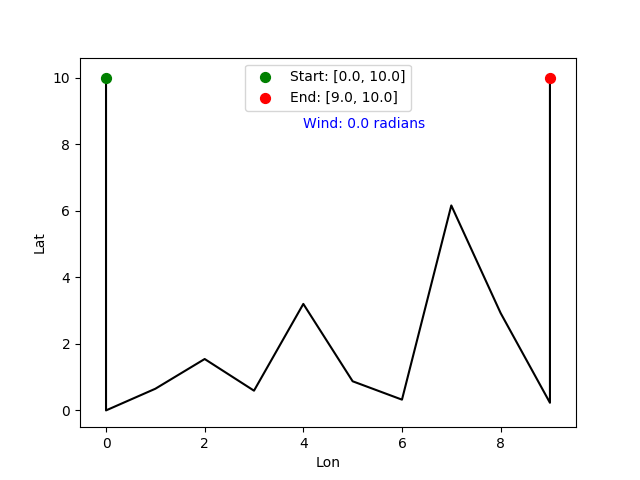
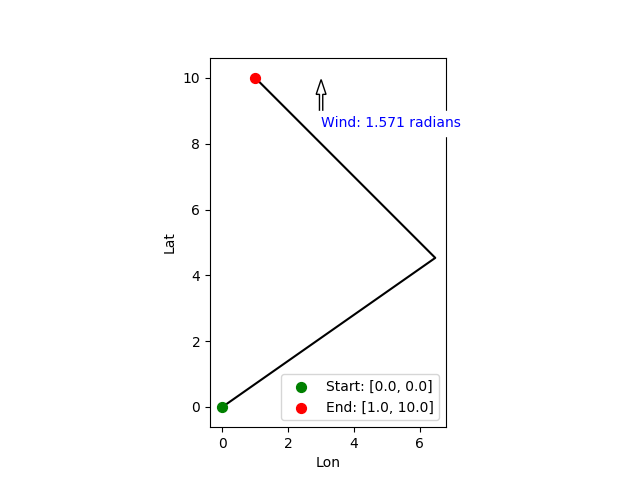
kinda working beta

diff --git a/lib/calc_route.dart b/lib/calc_route.dart
@@ -1,0 +1,120 @@
+import 'dart:math';
+import 'cart_point.dart';
+import 'route_model.dart';
+import 'package:sail_routing_dart/route_writer.dart';
+
+void main() {
+  Cart_Point start = new Cart_Point(0.0, 0.0);
+  Cart_Point end = new Cart_Point(1.0, 10.0);
+  double wind = 0.0;
+  RouteModel route = new RouteModel(start: start, end: end, wind_radians: wind);
+
+  calculateOptimal(route);
+  print(route);
+
+  RouteWriter rw = new RouteWriter();
+  rw.writeToFileFromRouteModel(route: route);
+  rw.run_python_plotter();
+}
+
+double euc_dist(Cart_Point a, Cart_Point b) {
+  return a.toPoint().distanceTo(b.toPoint());
+}
+
+Cart_Point find_intersection(
+    Cart_Point a, Cart_Point b, Cart_Point c, Cart_Point d) {
+  double a1 = b.y - a.y;
+  double b1 = a.x - b.x;
+  double c1 = a1 * (a.x) + b1 * (a.y);
+
+  // Line CD represented as a2x + b2y = c2
+  double a2 = d.y - c.y;
+  double b2 = c.x - d.x;
+  double c2 = a2 * (c.x) + b2 * (c.y);
+
+  double determinant = a1 * b2 - a2 * b1;
+
+  if (determinant == 0) {
+    print("find_intersection() found parallel");
+    throw Error();
+  } else {
+    double x = (b2 * c1 - b1 * c2) / determinant;
+    double y = (a1 * c2 - a2 * c1) / determinant;
+    print("intersection of: " + Cart_Point(x, y).toString());
+    return new Cart_Point(x, y);
+  }
+}
+
+bool check_viable_tack(Cart_Point p1, Cart_Point p2, double wind_radians) {
+  /*
+    check_viable_tack just checks if a tack from p1 -> p2 is makable (not directly upwind).
+    Args:
+        p1 (tuple): Cartesian coordinates of start
+        p2 (tuple): Cartesian coordinates of end
+        wind_radians (double): wind direction 
+    Returns:
+        Boolean
+  */
+  double no_go_limit_radians = 0.610865; // Equivilant to 35 degrees
+
+  double wind_upper = (wind_radians + no_go_limit_radians);
+  double wind_lower = (wind_radians - no_go_limit_radians);
+
+  Point delta = p2.toPoint() - p1.toPoint();
+
+  double tack_angle = atan2(delta.y, delta.x);
+
+  if (tack_angle < 0) {
+    tack_angle += pi;
+  }
+  if (!((tack_angle > wind_lower) && (tack_angle < wind_upper))) {
+    print("Not viable tack~=~=~=~=~=~=~=~=~=~=~=~=~=~=~=\n\n\n");
+  }
+
+  return (tack_angle > wind_lower) && (tack_angle < wind_upper);
+}
+
+double bestTackAngle(Cart_Point start, Cart_Point goal, double wind_radians) {
+  double no_go_limit_radians = 0.610865;
+  Point delta = goal.toPoint() - start.toPoint();
+  double impossible_tack = atan2(delta.y, delta.x);
+  print("imposs  =  " + impossible_tack.toString());
+  double wind_upper = (wind_radians + no_go_limit_radians);
+  double wind_lower = (wind_radians - no_go_limit_radians);
+
+  if ((impossible_tack - wind_upper) < (impossible_tack - wind_lower)) {
+    return wind_upper;
+  } else {
+    return wind_lower;
+  }
+}
+
+calculateOptimal(RouteModel route) {
+  List intermediate_points = new List<Cart_Point>();
+  // double ng_slope = bestTackAngle(route.start, route.end, route.wind_radians);
+  if (!check_viable_tack(route.start, route.end, route.wind_radians)) {
+    double best_tack_slope =
+        bestTackAngle(route.start, route.end, route.wind_radians);
+
+    print("__BEST TACK " + best_tack_slope.toString());
+    double inverse_tack_slope =
+        bestTackAngle(route.end, route.start, route.wind_radians) + pi;
+    print("__INVERSE TACK " + inverse_tack_slope.toString());
+
+    Cart_Point start2 = Cart_Point.fromPoint(route.start.toPoint() +
+        Point(cos(best_tack_slope), sin(best_tack_slope)));
+    Cart_Point end2 = Cart_Point.fromPoint(route.end.toPoint() +
+        Point(1, -1)); //cos(inverse_tack_slope), sin(inverse_tack_slope)));
+    Cart_Point intersect =
+        find_intersection(route.start, start2, route.end, end2);
+
+    intermediate_points.add(start2);
+    intermediate_points.add(intersect);
+    intermediate_points.add(end2);
+
+    route.intermediate_points = intermediate_points;
+  } else {
+    route.intermediate_points = [new Cart_Point(3, 8)];
+  }
+  print(route.intermediate_points);
+}

diff --git a/lib/route_model.dart b/lib/route_model.dart
@@ -1,4 +1,5 @@
 import 'dart:core';
+import 'dart:math';
 
 import 'package:sail_routing_dart/cart_point.dart';
 
@@ -6,24 +7,27 @@ class RouteModel {
   Cart_Point _start;
   Cart_Point _end;
   List<Cart_Point> _intermediate_points;
-  double _wind;
+  double _wind_radians;
 
   // Getters
   Cart_Point get start => this._start;
   Cart_Point get end => this._end;
   List<Cart_Point> get intermediate_points => this._intermediate_points;
-  double get wind => this._wind;
+  double get wind_radians => this._wind_radians;
+
+  void set intermediate_points(List<Cart_Point> l) =>
+      this._intermediate_points = l;
 
   RouteModel(
       {Cart_Point start,
       Cart_Point end,
-      List<Cart_Point> intermediate_points,
-      double wind}) {
+      // List<Cart_Point> intermediate_points,
+      double wind_radians}) {
     this._start = start;
 
     this._end = end;
-    this._intermediate_points = intermediate_points;
-    this._wind = wind;
+    this._intermediate_points = new List<Cart_Point>();
+    this._wind_radians = wind_radians;
   }
 
   @override
@@ -32,12 +36,17 @@ class RouteModel {
 
     output += "\n\tStart: " + _start.toString();
     output += "\n\tEnd: " + _end.toString();
-    output += "\n\tWind: " + _wind.toString();
-    output += "\n\tIntermediate_Points: " +
-        intermediate_points.map((p) => "\n\t\t" + p.toString()).toString();
+    output += "\n\twind_radians: " + _wind_radians.toString();
+
+    if (_intermediate_points.isNotEmpty) {
+      output += "\n\tIntermediate_Points: " +
+          intermediate_points.map((p) => "\n\t\t" + p.toString()).toString();
+    }
     output += "\n[/ROUTE]";
     return output;
   }
+
+  calculateOptimal() {}
 }
 
 void main() {

diff --git a/lib/main.dart b/lib/main.dart
@@ -8,22 +8,27 @@ import 'dart:math';
 import 'package:sail_routing_dart/route_writer.dart';
 
 void main() {
-  Cart_Point start = new Cart_Point(0.0, 10.0);
-  Cart_Point end = new Cart_Point(9.0, 10.0);
-  List<Cart_Point> intermediate_points = new List();
-  for (var x = 0.0; x < 10; x++) {
-    var y = (x * Random.secure().nextDouble()) % 100;
-    intermediate_points.add(new Cart_Point(x, y));
-  }
-  double wind = 0.0;
-  RouteModel route = new RouteModel(
-      start: start,
-      end: end,
-      intermediate_points: intermediate_points,
-      wind: wind);
-  print(route);
+  double wind_radians = 2 * pi - 0.01;
+  double no_go_limit_radians = 0.610865; // Equivilant to 35 degrees
 
-  RouteWriter rw = new RouteWriter();
-  rw.writeToFileFromRouteModel(route: route);
-  rw.run_python_plotter();
+  double wind_upper = (wind_radians + no_go_limit_radians) % (2 * pi);
+  double wind_lower = (wind_radians - no_go_limit_radians) % (2 * pi);
+  // wind_lower += wind_lower < 0 ? 2 * pi : 0;
+  wind_lower *= 57.2958;
+  wind_upper *= 57.2958;
+  no_go_limit_radians *= 57.2958;
+  print(wind_lower.toString() + ", " + wind_upper.toString());
+  print(no_go_limit_radians);
 }
+//   Cart_Point start = new Cart_Point(0.0, 0.0);
+//   Cart_Point end = new Cart_Point(9.0, 10.0);
+
+//   double wind = 5 * pi / 4;
+
+//   RouteModel route = new RouteModel(start: start, end: end, wind_radians: wind);
+//   print(route);
+
+//   RouteWriter rw = new RouteWriter();
+//   rw.writeToFileFromRouteModel(route: route);
+//   rw.run_python_plotter();
+// }

diff --git a/lib/route_writer.dart b/lib/route_writer.dart
@@ -15,7 +15,7 @@ class RouteWriter {
     fileContents.add({'start': start});
 
     fileContents.add({'end': end});
-    fileContents.add({'wind_direction': wind_direction});
+    fileContents.add({'wind_direction': wind_direction + pi / 2});
 
     fileContents.add({'points': points});
 
@@ -31,7 +31,7 @@ class RouteWriter {
     fileContents.add({'start': route.start.toList()});
 
     fileContents.add({'end': route.end.toList()});
-    fileContents.add({'wind_direction': route.wind});
+    fileContents.add({'wind_direction': route.wind_radians + pi / 2});
 
     fileContents.add({
       'points':

diff --git a/lib/cart_point.dart b/lib/cart_point.dart
@@ -1,3 +1,5 @@
+import 'dart:math';
+
 class Cart_Point {
   double _x;
   double _y;
@@ -15,5 +17,13 @@ class Cart_Point {
     output[0] = this._x;
     output[1] = this._y;
     return output;
+  }
+
+  Cart_Point.fromPoint(Point p) {
+    this._x = p.x;
+    this._y = p.y;
+  }
+  Point toPoint() {
+    return new Point(this._x, this._y);
   }
 }

diff --git a/lib/sail_routing.dart b/lib/sail_routing.dart
@@ -1,7 +1,5 @@
 library sail_routing;
 
-import 'grapher.dart';
-
 class SailRoute {
   String hello() => "Hello from the sail_routing lib";
 }

diff --git a/lib/pretty_plotter.py b/lib/pretty_plotter.py
@@ -33,7 +33,7 @@ y_row_major = [p[1] for p in allpoints]
 
 ax = plt.axes()
 wind_radians = final_map["wind_direction"]
-wind_label = "Wind: " + str(final_map["wind_direction"]) + " radians"
+wind_label = "Wind: " + '%.3f' % final_map["wind_direction"] + " radians"
 # Where the start of the wind arrow is drawn (top center)
 wind_origin = (max(x_row_major)//2, max(y_row_major)*.85)
 
@@ -55,7 +55,8 @@ plt.scatter(final_map["end"][0], final_map["end"][1], s=50,
 plt.legend(loc='best')
 plt.xlabel('Lon')
 plt.ylabel('Lat')
-
+# make it a square
+ax.set_aspect('equal', 'box')
 # Save to a file, I hated having 20+ python windows open
 plt.savefig(dname+"/plotted_course")
 plt.close()
